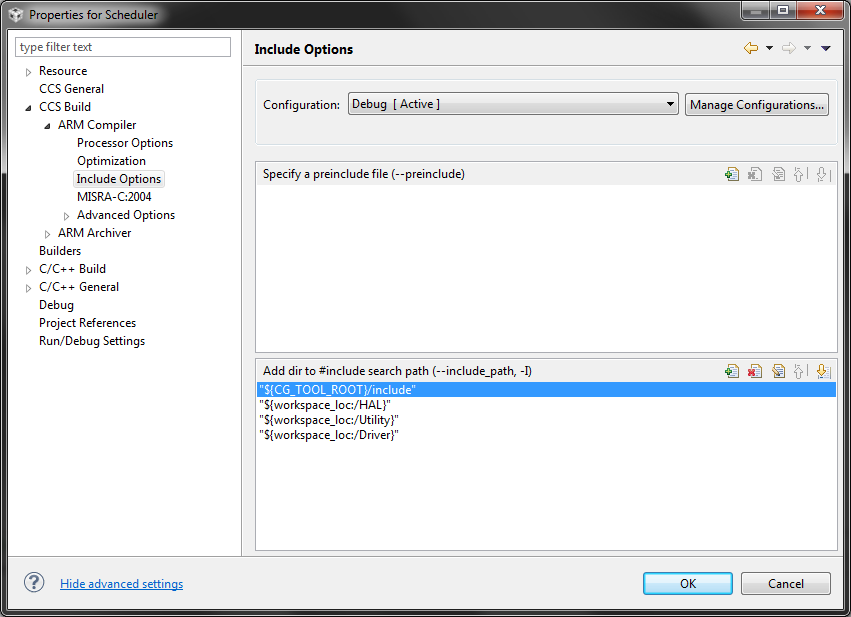
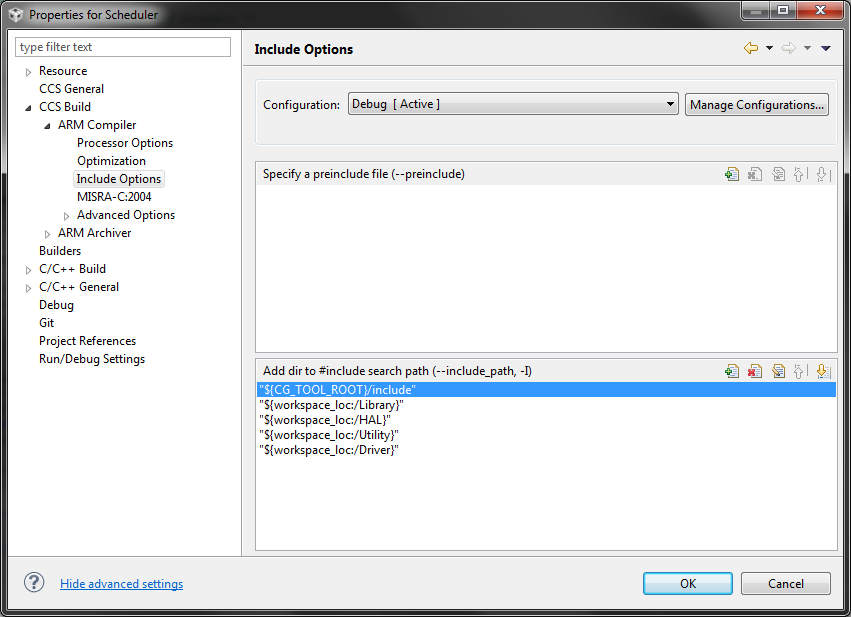
updated project configuration

Changed region(s): [[0.0306, 0.4927, 0.1833, 0.6159], [0.3055, 0.6467, 0.4888, 0.7391]]

diff --git a/configuration.md b/configuration.md
@@ -7,9 +7,11 @@
 - [Scheduler](#Scheduler) 
 - [Util](#Util) 
 - [Hal](#Hal)
+- [Library](#Library)
 
 ### <a name="Kernel"></a>Kernel-Project include options
 ![alt tag](https://raw.github.com/BRO-FHV/docs/master/images/kernel.png)
+![alt tag](https://raw.github.com/BRO-FHV/docs/master/images/kernel_2.png)
 
 ### <a name="Driver"></a>Driver-Project include options
 ![alt tag](https://raw.github.com/BRO-FHV/docs/master/images/driver.png)
@@ -25,3 +27,6 @@
 
 ### <a name="Hal"></a>HAL-Project include options
 ![alt tag](https://raw.github.com/BRO-FHV/docs/master/images/hal.png)
+
+### <a name="Library"></a>Library-Project include options
+![alt tag](https://raw.github.com/BRO-FHV/docs/master/images/library.png)
